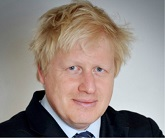
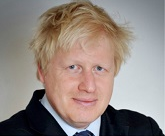
came

diff --git a/index.html b/index.html
@@ -271,7 +271,7 @@
                                 <div class="single-tutors-slides">
                                     <!-- Tutor Thumbnail -->
                                     <div class="tutor-thumbnail">
-                                        <img src="img/bg-img/t1.png" alt="">
+                                        <img src="img/bg-img/t1.jpg" alt="">
                                     </div>
                                     <!-- Tutor Information -->
                                     <div class="tutor-information text-center">
